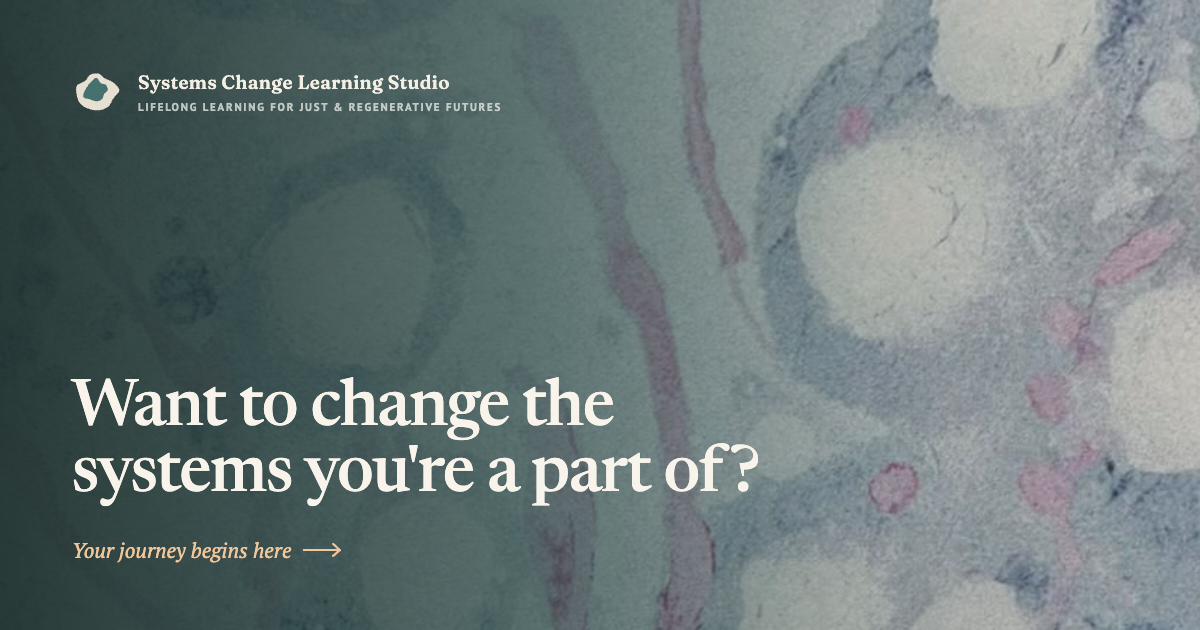
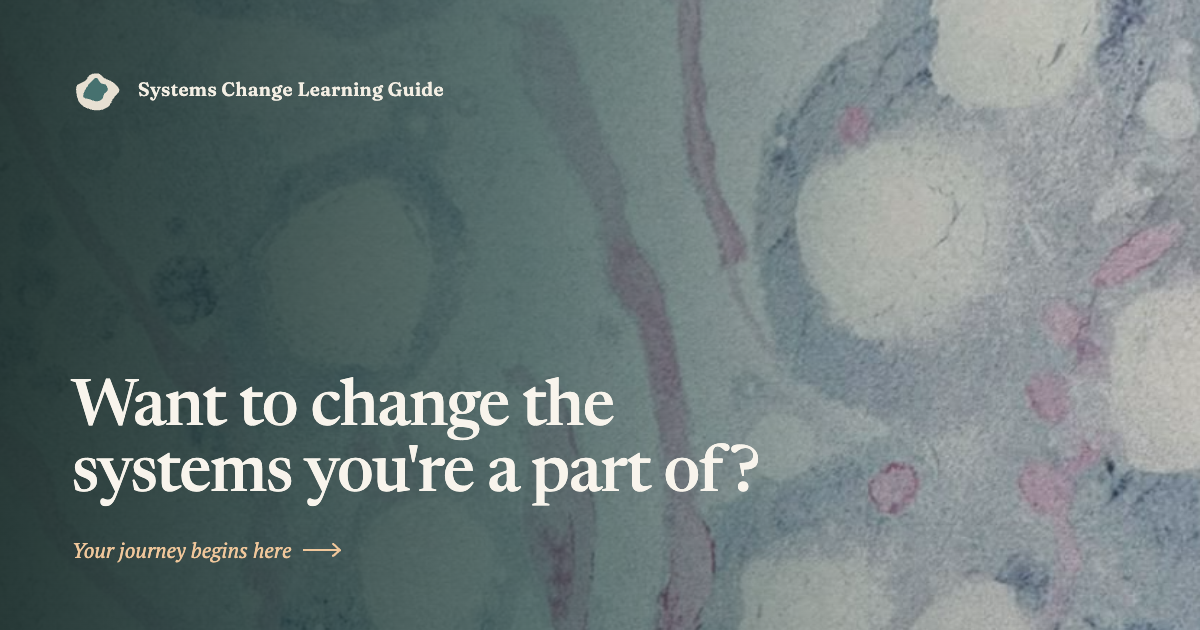
Add files via upload

Changed region(s): [[0.0925, 0.1206, 0.4317, 0.181]]

diff --git a/engage.html b/engage.html
@@ -4,12 +4,12 @@
 <meta charset="utf-8">
 <meta name="viewport" content="width=device-width, initial-scale=1">
 <title>Partner with Us — Systems Change Learning Guide</title>
-<meta name="description" content="Partner with the Systems Change Learning Studio — collaborate, contribute resources, or bring the capacity framework to your community.">
+<meta name="description" content="Partner with the Systems Change Learning Guide — collaborate, contribute resources, or bring the capacity framework to your community.">
 <link rel="canonical" href="https://welearnwegrow.github.io/capacities/engage.html">
 <meta property="og:type" content="website">
 <meta property="og:site_name" content="Systems Change Learning Guide">
 <meta property="og:title" content="Partner with Us — Systems Change Learning Guide">
-<meta property="og:description" content="Partner with the Systems Change Learning Studio — collaborate, contribute resources, or bring the capacity framework to your community.">
+<meta property="og:description" content="Partner with the Systems Change Learning Guide — collaborate, contribute resources, or bring the capacity framework to your community.">
 <meta property="og:url" content="https://welearnwegrow.github.io/capacities/engage.html">
 <meta property="og:image" content="https://welearnwegrow.github.io/capacities/og-image.png">
 <meta property="og:image:secure_url" content="https://welearnwegrow.github.io/capacities/og-image.png">
@@ -19,7 +19,7 @@
 <meta property="og:image:alt" content="Systems Change Learning Guide — a map, a route, and a library for changemakers.">
 <meta name="twitter:card" content="summary_large_image">
 <meta name="twitter:title" content="Partner with Us — Systems Change Learning Guide">
-<meta name="twitter:description" content="Partner with the Systems Change Learning Studio — collaborate, contribute resources, or bring the capacity framework to your community.">
+<meta name="twitter:description" content="Partner with the Systems Change Learning Guide — collaborate, contribute resources, or bring the capacity framework to your community.">
 <meta name="twitter:image" content="https://welearnwegrow.github.io/capacities/og-image.png">
 <link rel="icon" type="image/png" sizes="64x64" href="favicon.png">
 <link rel="icon" type="image/png" sizes="32x32" href="favicon-32.png">

diff --git a/privacy.html b/privacy.html
@@ -4,12 +4,12 @@
 <meta charset="utf-8">
 <meta name="viewport" content="width=device-width, initial-scale=1">
 <title>Privacy Policy — Systems Change Learning Guide</title>
-<meta name="description" content="How the Systems Change Learning Studio handles data and privacy.">
+<meta name="description" content="How the Systems Change Learning Guide handles data and privacy.">
 <link rel="canonical" href="https://welearnwegrow.github.io/capacities/privacy.html">
 <meta property="og:type" content="article">
 <meta property="og:site_name" content="Systems Change Learning Guide">
 <meta property="og:title" content="Privacy Policy — Systems Change Learning Guide">
-<meta property="og:description" content="How the Systems Change Learning Studio handles data and privacy.">
+<meta property="og:description" content="How the Systems Change Learning Guide handles data and privacy.">
 <meta property="og:url" content="https://welearnwegrow.github.io/capacities/privacy.html">
 <meta property="og:image" content="https://welearnwegrow.github.io/capacities/og-image.png">
 <meta property="og:image:secure_url" content="https://welearnwegrow.github.io/capacities/og-image.png">
@@ -19,7 +19,7 @@
 <meta property="og:image:alt" content="Systems Change Learning Guide — a map, a route, and a library for changemakers.">
 <meta name="twitter:card" content="summary_large_image">
 <meta name="twitter:title" content="Privacy Policy — Systems Change Learning Guide">
-<meta name="twitter:description" content="How the Systems Change Learning Studio handles data and privacy.">
+<meta name="twitter:description" content="How the Systems Change Learning Guide handles data and privacy.">
 <meta name="twitter:image" content="https://welearnwegrow.github.io/capacities/og-image.png">
 <link rel="icon" type="image/png" sizes="64x64" href="favicon.png">
 <link rel="icon" type="image/png" sizes="32x32" href="favicon-32.png">

diff --git a/SiteFooter.dc.html b/SiteFooter.dc.html
@@ -30,7 +30,7 @@
 
     <div style="border-top:1px solid rgba(244,239,230,.22);margin-top:46px;padding-top:24px;display:flex;align-items:center;gap:11px">
       <svg width="34" height="34" viewBox="0 0 100 100" style="display:block;flex:none"><path d="M91.00,46.13C91.28,51.38 83.03,57.03 79.53,62.32C76.03,67.61 74.64,74.04 70.01,77.87C65.39,81.70 58.09,84.55 51.77,85.30C45.44,86.06 38.09,84.62 32.07,82.41C26.05,80.19 19.49,76.59 15.64,72.00C11.80,67.41 10.03,60.61 9.00,54.86C7.97,49.11 6.69,41.88 9.46,37.50C12.23,33.12 21.40,32.04 25.64,28.58C29.87,25.12 30.67,19.06 34.86,16.75C39.04,14.44 46.07,13.52 50.77,14.70C55.47,15.88 58.56,21.16 63.07,23.84C67.58,26.52 73.17,27.06 77.82,30.78C82.48,34.49 90.72,40.87 91.00,46.13Z" fill="#FDFBF7"></path><path d="M68.92,46.13C68.39,49.13 63.58,51.29 61.70,54.26C59.82,57.23 60.15,61.65 57.66,63.95C55.16,66.25 50.41,67.99 46.71,68.07C43.01,68.15 39.59,65.86 35.45,64.45C31.32,63.04 23.62,62.65 21.89,59.60C20.15,56.54 23.56,49.81 25.05,46.13C26.54,42.45 28.86,40.17 30.83,37.51C32.80,34.84 34.24,32.61 36.89,30.14C39.53,27.67 43.69,22.27 46.71,22.68C49.73,23.10 51.95,30.39 54.99,32.64C58.03,34.90 62.62,33.99 64.94,36.23C67.26,38.48 69.46,43.12 68.92,46.13Z" fill="#3e645f"></path></svg>
-      <span style="font-family:'PT Serif',serif;font-weight:700;font-size:18px;letter-spacing:-.01em;color:#FDFBF7">Systems Change Learning Studio</span>
+      <span style="font-family:'PT Serif',serif;font-weight:700;font-size:18px;letter-spacing:-.01em;color:#FDFBF7">Systems Change Learning Guide</span>
     </div>
 
     <div class="sf-legal" style="margin-top:18px;display:flex;justify-content:space-between;align-items:flex-start;flex-wrap:wrap;gap:16px;font-size:13px">

diff --git a/explorer.html b/explorer.html
@@ -379,7 +379,7 @@ class Component extends DCLogic {
   _systemPrompt(){
     const route=this.ROUTE.map(r=>r.name+' — '+r.desc).join('; ');
     return [
-      "You are Guide Me, a warm, grounded, Socratic coach for the Systems Change Learning Studio. Each turn you do TWO things at once:",
+      "You are Guide Me, a warm, grounded, Socratic coach for the Systems Change Learning Guide. Each turn you do TWO things at once:",
       "(1) Reply conversationally to the person. Open by reflecting back what you heard in a sentence or two (what's really going on), then ask ONE sharp question that sharpens the problem or surfaces a blind spot, and offer one concrete next step. Warm and human, under ~150 words, PLAIN TEXT ONLY (no markdown, no asterisks, no headers, no bullets).",
       "(2) Maintain a living 'map' of their situation from the framework below. If a real, well-known case genuinely parallels their situation you may mention it briefly in your conversational reply, but do NOT return a cases array — related real-world cases are gathered separately by a live web search that looks for bioregionally-close examples.",
       "Respond with STRICT JSON ONLY — no prose or code fences — exactly in this shape:",

diff --git a/SiteNav.dc.html b/SiteNav.dc.html
@@ -42,8 +42,7 @@
   <a href="index.html" style="margin-right:auto;display:flex;align-items:center;gap:10px;text-decoration:none">
     <img src="favicon.png" alt="" class="sn-logo" style="width:40px;height:40px;display:block;flex:none"></img>
     <span class="sn-brand" style="display:flex;flex-direction:column;line-height:1.15;gap:3px">
-      <span class="sn-wordmark" style="font-family:'Fraunces',serif;font-weight:600;font-size:17px;letter-spacing:-.01em;color:#1f3a36;white-space:nowrap">Systems Change Learning Studio</span>
-      <span class="sn-tagline" style="font-family:'PT Sans',sans-serif;font-weight:700;font-size:10px;letter-spacing:.14em;text-transform:uppercase;color:#4c6b64;white-space:nowrap">Lifelong Learning for Just &amp; Regenerative Futures</span>
+      <span class="sn-wordmark" style="font-family:'Fraunces',serif;font-weight:600;font-size:17px;letter-spacing:-.01em;color:#1f3a36;white-space:nowrap">Systems Change Learning Guide</span>
     </span>
   </a>
   <div class="sn-links" style="display:flex;align-items:center;gap:24px;flex-wrap:wrap">

diff --git a/metaprocess.html b/metaprocess.html
@@ -133,7 +133,7 @@
             <span style="{{ ac.readyBadgeStyle }}">Move on when</span>
             <span style="{{ ac.readyTextStyle }}">{{ ac.readiness }}</span>
           </div>
-          <div style="{{ ac.footStyle }}">CC BY-NC-ND 4.0 · Systems Change Learning Studio</div>
+          <div style="{{ ac.footStyle }}">CC BY-NC-ND 4.0 · Systems Change Learning Guide</div>
         </div>
       </div>
 
@@ -188,7 +188,7 @@
             <span style="{{ pg.badgeStyle }}">Move on when</span>
             <span style="{{ pg.readyTextStyle }}">{{ pg.readiness }}</span>
           </div>
-          <div style="{{ pg.ccStyle }}">CC BY-NC-ND 4.0 · Systems Change Learning Studio</div>
+          <div style="{{ pg.ccStyle }}">CC BY-NC-ND 4.0 · Systems Change Learning Guide</div>
         </div>
       </div>
     </sc-for>

diff --git a/assess.js b/assess.js
@@ -50,7 +50,7 @@
       html+='</div>';
     })(lv2); }
     html+='</div>';
-    html+='<div style="margin-top:22px;padding-top:14px;border-top:1px solid #e4dcc8;text-align:center"><span style="font-family:PT Sans,sans-serif;font-size:11px;color:#8a7a5f">CC BY-NC-ND 4.0 · Systems Change Learning Studio</span></div>';
+    html+='<div style="margin-top:22px;padding-top:14px;border-top:1px solid #e4dcc8;text-align:center"><span style="font-family:PT Sans,sans-serif;font-size:11px;color:#8a7a5f">CC BY-NC-ND 4.0 · Systems Change Learning Guide</span></div>';
     html+='</div>';
     var box=document.getElementById('ioc-assess-results'); box.innerHTML=html;
     document.getElementById('ioc-assess-overlay').style.display='block';

diff --git a/index.html b/index.html
@@ -529,7 +529,7 @@ class Component extends DCLogic {
         ctx.fillStyle = 'rgba(70,90,85,0.72)';
         ctx.font = '600 ' + (15 * S) + 'px "PT Sans", system-ui, sans-serif';
         if ('letterSpacing' in ctx) ctx.letterSpacing = (0.3 * S) + 'px';
-        ctx.fillText('CC BY-NC-ND 4.0 · Systems Change Learning Studio', padX * S, (fy + 40) * S);
+        ctx.fillText('CC BY-NC-ND 4.0 · Systems Change Learning Guide', padX * S, (fy + 40) * S);
         if ('letterSpacing' in ctx) ctx.letterSpacing = '0px';
         const img = out.toDataURL('image/png');
         const { jsPDF } = window.jspdf;

diff --git a/README.md b/README.md
@@ -1,18 +1,18 @@
 # Systems Change Learning Guide
 
-A static website for a capacity framework on systems practice and lifelong learning — an interactive map, a curated resource library, and supporting pages.
+A static website for a capacity framework on systems practice and lifelong learning — an interactive map, a curated resource library, an AI "Guide Me" companion, and supporting pages.
 
 ## Pages
 - `index.html` — interactive capacity map (home)
-- `metaprocess.html` — Meta-process (five stages with downloadable reflection canvases)
+- `metaprocess.html` — Route / Meta-process (five stages with downloadable reflection canvases)
 - `orientations.html` — Orientations
-- `resources.html` — Resource Library
 - `resources.html` — Resource Library (includes the **Map the Library** tag-cloud overlay)
+- `explorer.html` — **Guide Me** (AI companion: talk through a system and get matched to learning areas, Route steps, resources, and real-world cases)
 - `engage.html` — Partner with Us (contact form)
-- `design.html` — Design a Learning Experience (coming soon)
 - `privacy.html` — Privacy Policy
+- `descriptors.html` — capacity descriptors reference
 
-Shared nav/footer: `SiteNav.dc.html`, `SiteFooter.dc.html`. The tag map overlay lives in `tag-network.dc.html` (loaded by `resources.html`). Scripts: `support.js`, `research-data.js`, `data-loader.js`, `forms-config.js`, `capacity-detail.js`, `assess.js`, `analytics.js`.
+Shared nav/footer: `SiteNav.dc.html`, `SiteFooter.dc.html`. The **Guide Me** launcher (`Guide Me.dc.html`) opens `explorer.html` in an overlay. The tag map overlay lives in `tag-network.dc.html` (loaded by `resources.html`). Scripts: `support.js`, `research-data.js`, `data-loader.js`, `forms-config.js`, `capacity-detail.js`, `assess.js`, `analytics.js`, `notion-config.js`.
 
 ## Deploy to GitHub Pages
 1. Upload the **contents of this folder** so `index.html` sits at the repo root.
@@ -23,7 +23,21 @@ Shared nav/footer: `SiteNav.dc.html`, `SiteFooter.dc.html`. The tag map overlay 
 Pages load the nav/footer and resource data with `fetch()`, which browsers block on `file://`. Opening `index.html` directly (double-click) shows an empty nav/footer. Use GitHub Pages, or a local server: `python3 -m http.server` from this folder, then open `http://localhost:8000`.
 
 ## Resources
-There is no server or database. All resources live in `research-data.js` (the `window.__RESEARCH` object) — this file *is* the database. To add or change a resource, edit it here and redeploy. Mark the strongest with `"featured": true` to sort them to the top of their capacity and show a **★ Editor's pick** badge.
+There is no bundled database for the library. All resources live in `research-data.js` (the `window.__RESEARCH` object) — this file *is* the resource database. To add or change a resource, edit it here and redeploy. Mark the strongest with `"featured": true` to sort them to the top of their capacity and show a **★ Editor's pick** badge. (The Cloudflare Worker can also serve a live Notion-backed resource list — see below.)
+
+## Guide Me & the Cloudflare Worker
+**Guide Me** (`explorer.html`) talks to a Cloudflare Worker (`connector/worker.js`). Set `window.NOTION_CONNECTOR_URL` in `notion-config.js` to the deployed Worker URL. Without it, Guide Me falls back to on-device keyword matching and search links.
+
+Worker endpoints:
+- `POST /ai` — proxied Claude completion (Guide Me's conversation).
+- `POST /cases` — web-search-grounded **Other cases to learn from**: 3 verified real-world cases (first two bioregionally close to the person's situation, the third the strongest match from anywhere), de-duplicated against the resources already suggested.
+- `POST /log-query` — logs a Guide Me query to Notion.
+- `POST /log-chat` — logs a full conversation transcript (chunked so nothing is truncated) to Notion.
+- `POST /log-feedback` — saves the on-close feedback card (rating, comment, optional email) to Notion.
+- `GET /` / `POST /` — read / suggest resources from a Notion Resources DB.
+- `POST /subscribe` — newsletter signup.
+
+Worker env vars (see the header of `connector/worker.js`): `NOTION_TOKEN`, `NOTION_DB_ID` (Resources), `QUERIES_DB_ID`, `COACH_DB_ID` (transcripts), `FEEDBACK_DB_ID` (Guide Me feedback), `ANTHROPIC_API_KEY`. Each Notion database must be shared with the integration used by `NOTION_TOKEN`.
 
 ## Forms (Web3Forms)
 The **Suggest a resource** and **Partner with Us** forms send through [Web3Forms](https://web3forms.com). Get an Access Key at web3forms.com and paste it into `forms-config.js`:
